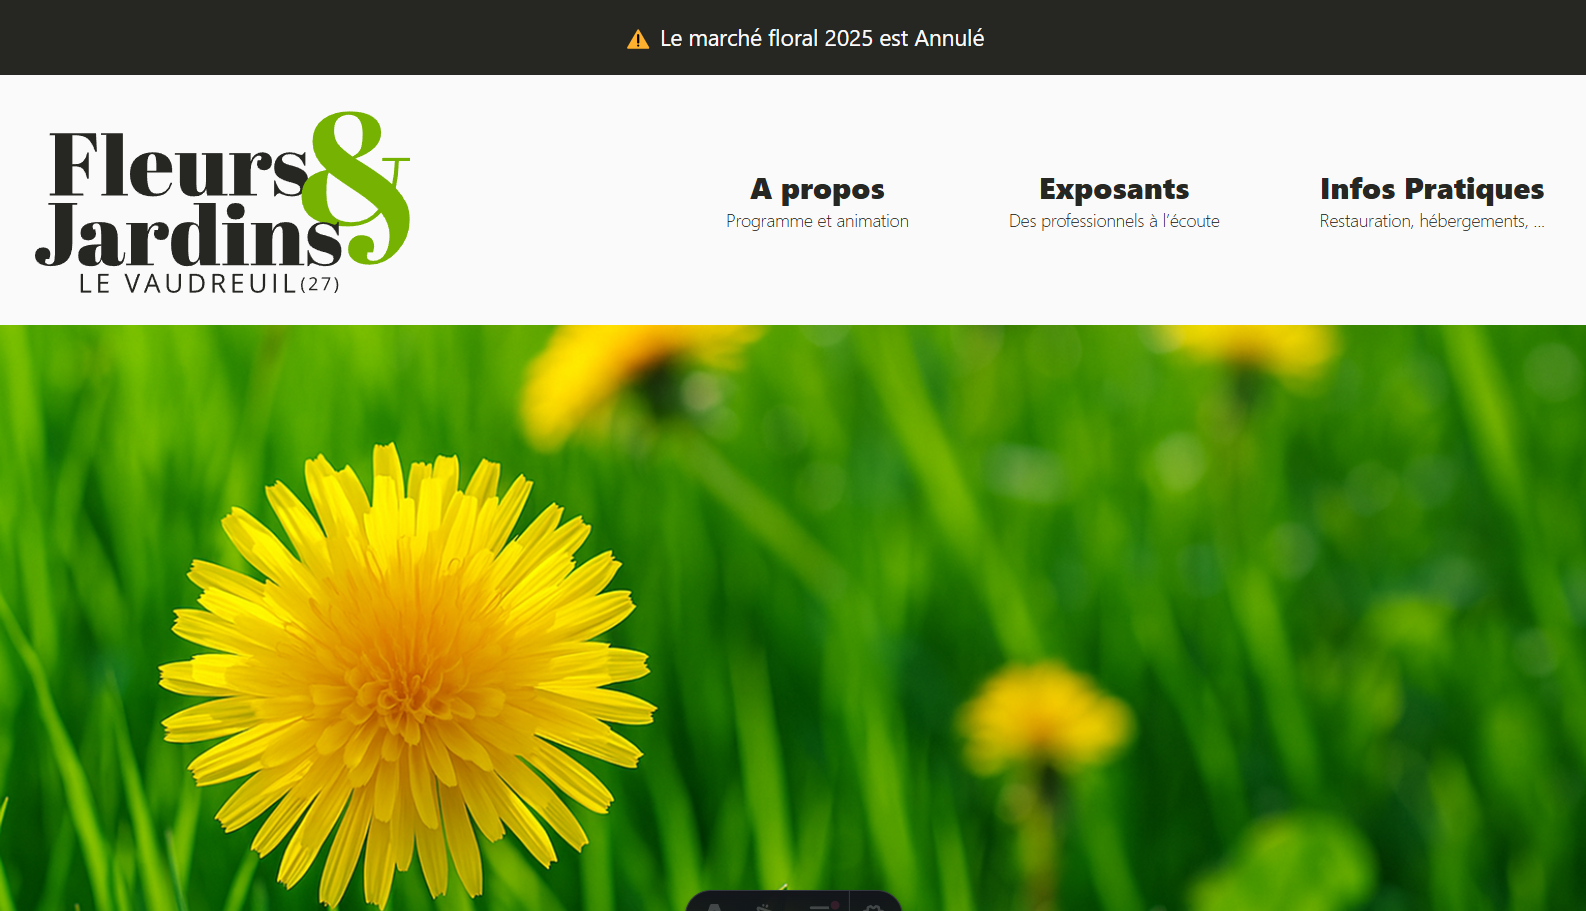
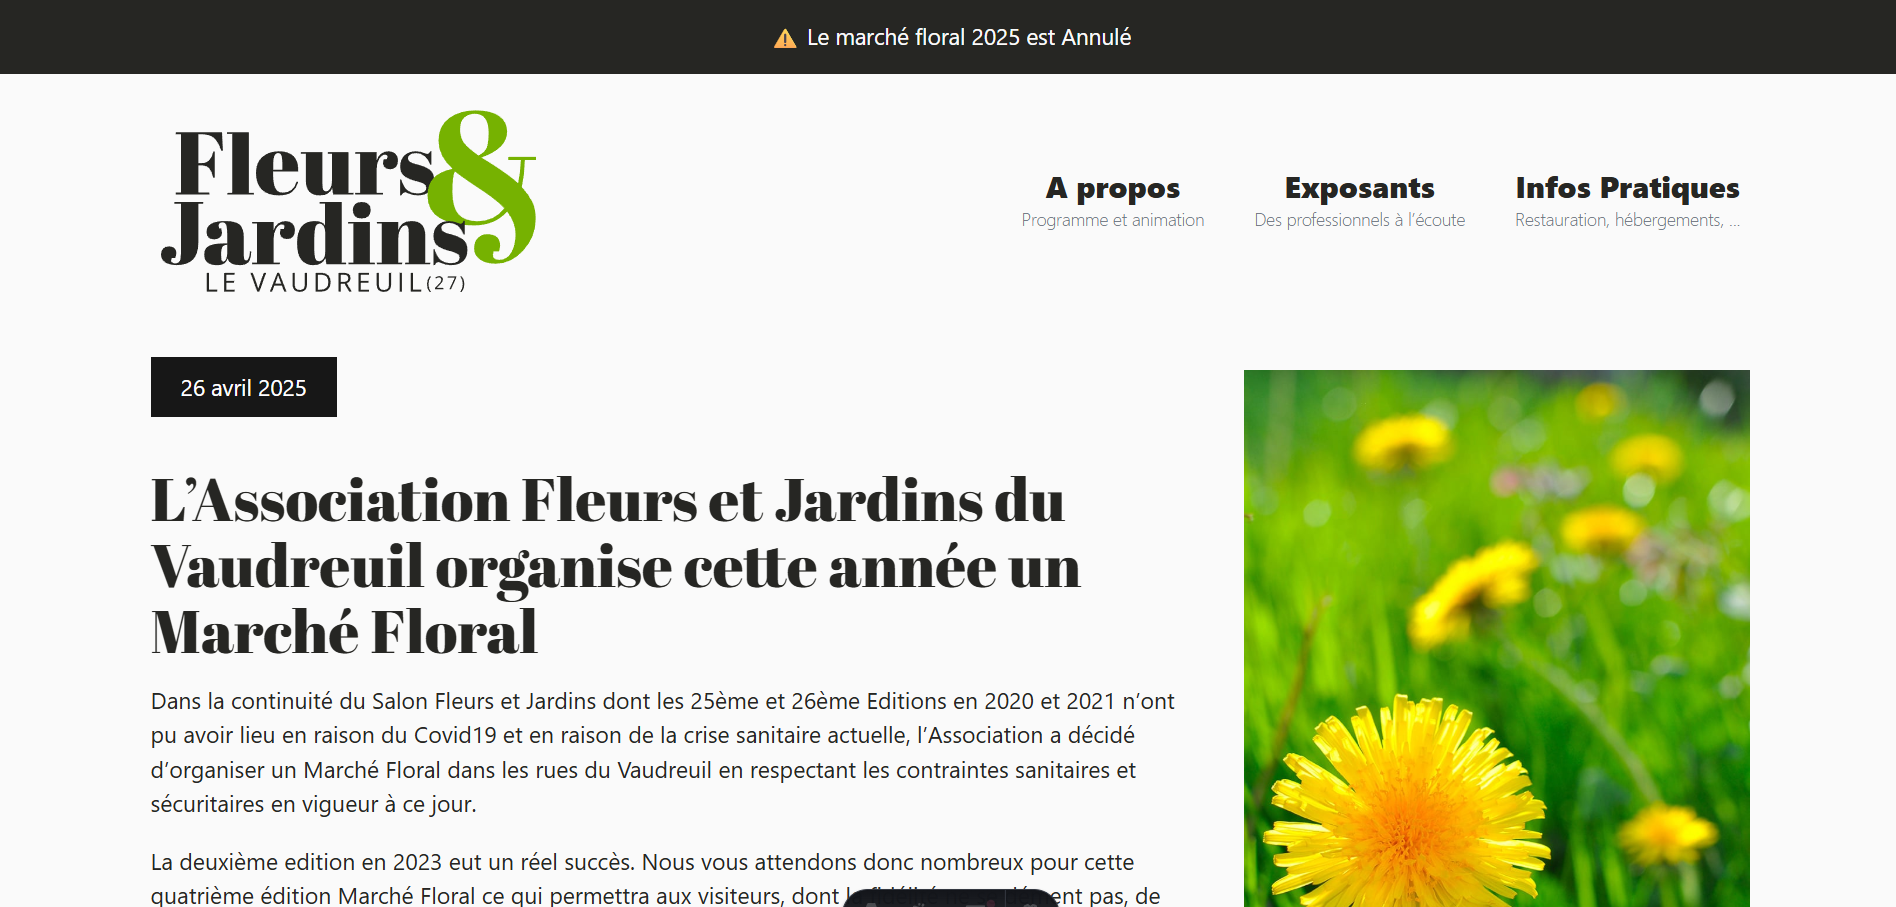
MXD: -transformation des pages necessaires md en mdx -correction routes dans data navigation -ajout et modif de certaines images -modif slug

diff --git a/src/styles/global.css b/src/styles/global.css
@@ -26,10 +26,10 @@
   @layer base {
 
     article h1 {
-      @apply text-xl uppercase text-center mx-auto;
+      @apply text-3xl uppercase text-center mx-auto;
     }
     article h2 {
-      @apply text-2xl ;
+      @apply text-3xl underline ;
     }
     article h3 {
       @apply text-xl ;

diff --git a/src/content/blog/charte.md b/src/content/blog/charte.md
@@ -1,5 +1,4 @@
 ---
-layout: "../layouts/Layout.astro"
 title: "Ma charte graphique"
 slug: "charte-graphique"
 description: "Découvrez l'univers visuel sur lequel s'appuie mon portfolio. Logo, couleurs et typographies qui reflètent mon identité."

diff --git a/src/content/blog/presentation.md b/src/content/blog/presentation.md
@@ -1,5 +1,4 @@
 ---
-layout: "../layouts/Layout.astro"
 title: "Qui suis-je?"
 slug: "presentation"
 description: "Qui suis-je? Découvrez la personne que je suis dans cette présentation."

diff --git a/src/content/blog/nexcent.md b/src/content/blog/nexcent.md
@@ -1,5 +1,4 @@
 ---
-layout: "../layouts/Layout.astro"
 title: "Nexcent"
 slug: "nexcent"
 description: "Reproduction une maquette Figma en HTML/CSS au pixel perfect."
